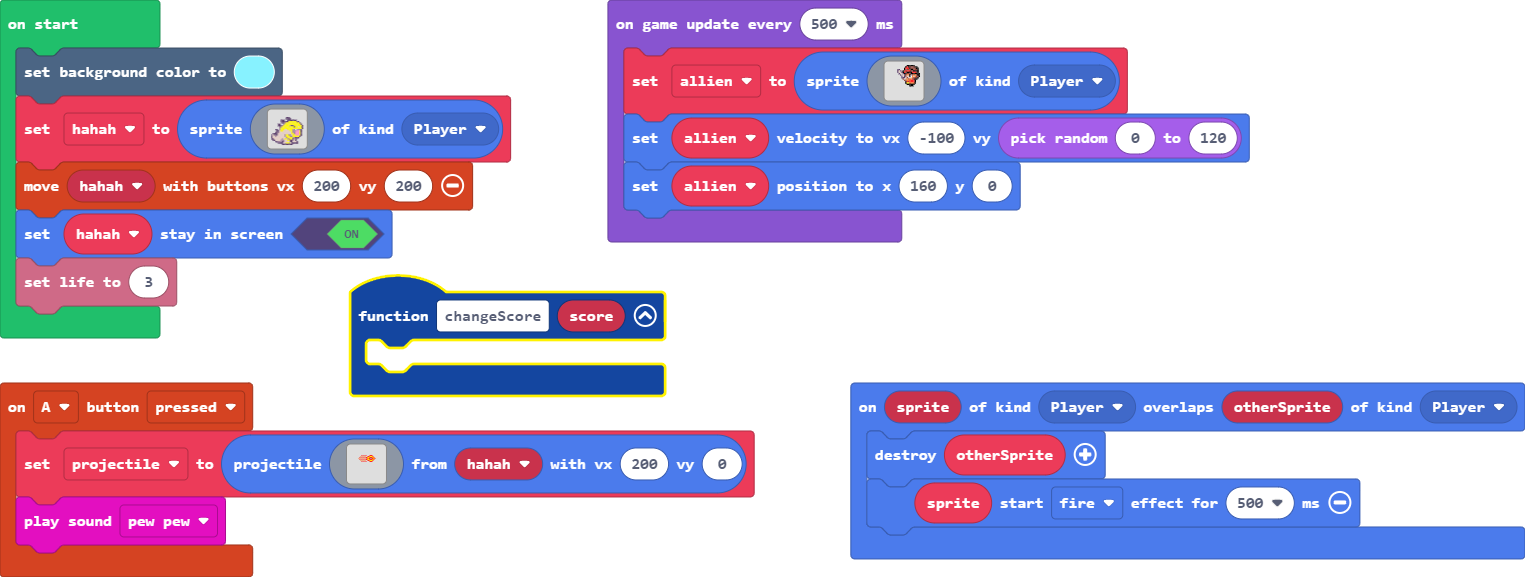
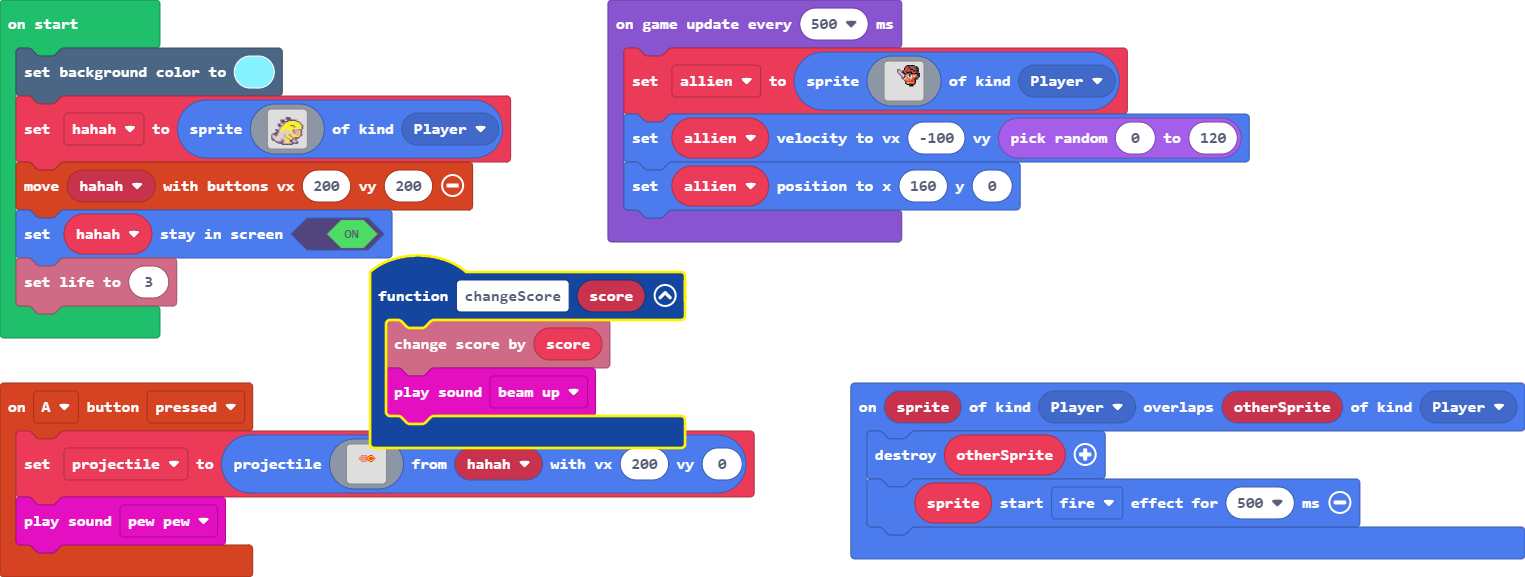
Update main.blocks, main.ts

Changed region(s): [[0.2157, 0.4367, 0.4623, 0.7799]]

diff --git a/main.ts b/main.ts
@@ -36,7 +36,8 @@ controller.A.onEvent(ControllerButtonEvent.Pressed, function () {
     music.pewPew.play()
 })
 function changeScore (score: number) {
-	
+    info.changeScoreBy(score)
+    music.beamUp.play()
 }
 sprites.onOverlap(SpriteKind.Player, SpriteKind.Player, function (sprite, otherSprite) {
     otherSprite.destroy()
